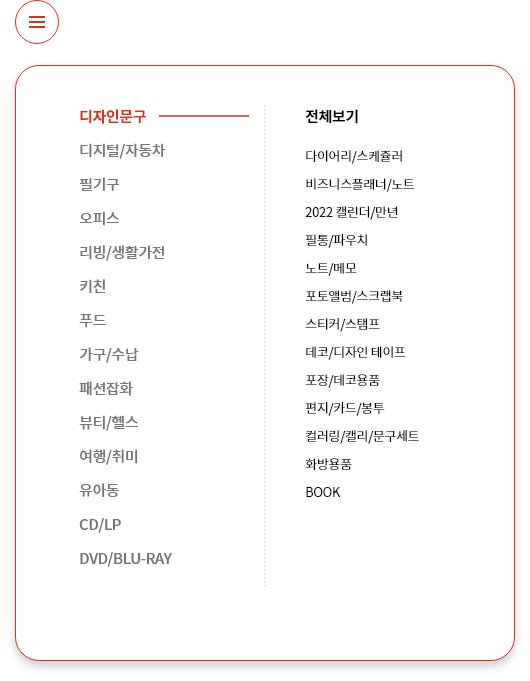
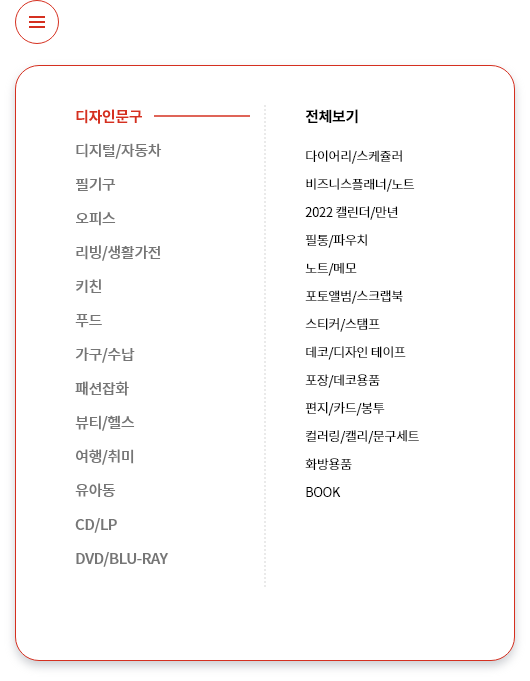
tytyrtyrtyrty

diff --git a/a_type/resources/css/layout.css b/a_type/resources/css/layout.css
@@ -13,7 +13,7 @@ li {list-style:none;}
 
 
 /***** layout *****/
-body {min-width:1300px;background:#fff;color:#000;font-family:'LG Smart','Malgun Gothic','맑은 고딕',Dotum,Arial;font-size:14px;font-weight:400;line-height:20px;-webkit-text-size-adjust:none;}
+body {min-width:1300px;background:#fff;color:#000;font-family:'Noto Sans','Malgun Gothic','맑은 고딕',Dotum,Arial;font-size:14px;font-weight:400;line-height:20px;-webkit-text-size-adjust:none;}
 #wrap {position:relative;}
 .inner {position:relative;width:1300px;margin:0 auto;padding:0 50px;box-sizing:border-box;}
 
@@ -27,10 +27,9 @@ header .ani_st {left:51px;top:54px;}
 header .link {display:block;position:absolute;left:0;top:0;width:100%;height:100%;z-index:5;}
 
 /* gnb */
-.btn_gnb {display:block;position:absolute;top:65px;width:60px;height:60px;background:#000;opacity:0;z-index:6;}
-.btn_gnb01 {right:180px;}
-.btn_gnb02 {right:113px;}
-.btn_gnb03 {right:45px;}
+.btn_gnb {display:block;position:absolute;top:65px;width:120px;height:60px;background:#000;opacity:0;z-index:6;}
+.btn_gnb01 {right:160px;}
+.btn_gnb03 {right:35px;}
 
 
 .gnb01 {display:none;position:absolute;left:35px;top:143px;z-index:7;}

diff --git a/a_type/index.html b/a_type/index.html
@@ -33,12 +33,11 @@
 			<a href="music.html" class="link"></a>
 			
 			<a href="#" class="btn_gnb btn_gnb01"></a>
-			<a href="#" class="btn_gnb btn_gnb02"></a>
 			<a href="#" class="btn_gnb btn_gnb03"></a>
 			
 			<a href="#" class="gnb gnb01"><img src="./resources/images/gnb01.png" alt=""></a>
-			<a href="#" class="gnb gnb02"><img src="./resources/images/gnb02.png" alt=""></a>
-			<a href="#" class="gnb gnb03"><img src="./resources/images/gnb03.png" alt=""></a>
+			<a href="#" class="gnb gnb_out gnb02"><img src="./resources/images/gnb02.png" alt=""></a>
+			<a href="#" class="gnb gnb_out gnb03"><img src="./resources/images/gnb03.png" alt=""></a>
 		</div>
 		<!-- //inner -->
 	</header>

diff --git a/a_type/sub.html b/a_type/sub.html
@@ -33,12 +33,11 @@
 			<a href="index.html" class="link"></a>
 			
 			<a href="#" class="btn_gnb btn_gnb01"></a>
-			<a href="#" class="btn_gnb btn_gnb02"></a>
 			<a href="#" class="btn_gnb btn_gnb03"></a>
 			
 			<a href="#" class="gnb gnb01"><img src="./resources/images/gnb01.png" alt=""></a>
-			<a href="#" class="gnb gnb02"><img src="./resources/images/gnb02.png" alt=""></a>
-			<a href="#" class="gnb gnb03"><img src="./resources/images/gnb03.png" alt=""></a>
+			<a href="#" class="gnb gnb_out gnb02"><img src="./resources/images/gnb02.png" alt=""></a>
+			<a href="#" class="gnb gnb_out gnb03"><img src="./resources/images/gnb03.png" alt=""></a>
 		</div>
 		<!-- //inner -->
 	</header>

diff --git a/a_type/music.html b/a_type/music.html
@@ -33,12 +33,11 @@
 			<a href="sub.html" class="link"></a>
 			
 			<a href="#" class="btn_gnb btn_gnb01"></a>
-			<a href="#" class="btn_gnb btn_gnb02"></a>
 			<a href="#" class="btn_gnb btn_gnb03"></a>
 			
 			<a href="#" class="gnb gnb01"><img src="./resources/images/gnb01.png" alt=""></a>
-			<a href="#" class="gnb gnb02"><img src="./resources/images/gnb02.png" alt=""></a>
-			<a href="#" class="gnb gnb03"><img src="./resources/images/gnb03.png" alt=""></a>
+			<a href="#" class="gnb gnb_out gnb02"><img src="./resources/images/gnb02.png" alt=""></a>
+			<a href="#" class="gnb gnb_out gnb03"><img src="./resources/images/gnb03.png" alt=""></a>
 		</div>
 		<!-- //inner -->
 	</header>

diff --git a/a_type/resources/js/template.js b/a_type/resources/js/template.js
@@ -266,6 +266,13 @@ $(function () {
 		$('.gnb01').fadeIn();
 		return false;
 	});
+	
+	$('.gnb01').click(function() {
+		$('.gnb').hide();
+		$('.gnb02').show();
+		return false;
+	});
+	
 	$('.btn_gnb02').click(function() {
 		$('.gnb').hide();
 		$('.gnb02').fadeIn();
@@ -276,7 +283,7 @@ $(function () {
 		$('.gnb03').fadeIn();
 		return false;
 	});
-	$('.gnb').click(function() {
+	$('.gnb_out').click(function() {
 		$('.gnb').fadeOut();
 		return false;
 	});

diff --git a/a_type/resources/css/style.css b/a_type/resources/css/style.css
@@ -1,5 +1,5 @@
 @charset "utf-8";
-@import "layout.css";
 @import "owl.carousel.min.css";
 @import "jquery.mCustomScrollbar.css";
+@import "layout.css";
 @import "contents.css";
